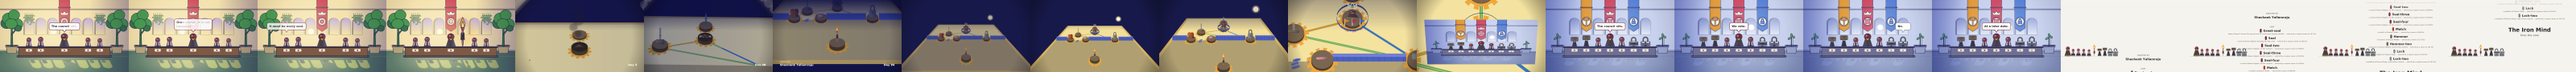
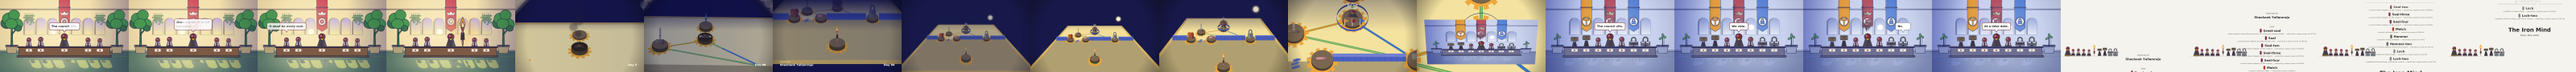
Signet's flag in the rebuilt chamber is the one from the fire: sooted, torn, its target remade roughly, its crown scorched; worn on the map too
Claude-Session: https://claude.ai/code/session_01BaNf7PEFwDmvbzQwQEuLP9

diff --git a/script_to_screen/presentation/place.py b/script_to_screen/presentation/place.py
@@ -39,14 +39,14 @@ from .view import ground, slot_x
 
 WALL_DEPTH, BACK_DEPTH, FRONT_DEPTH = 0.3, 0.15, -0.2
 FLOOR_UP = 46                                 # how far behind the entities' feet the wall meets the floor, in pixels
-ON_WALL = ("door", "window", "picture", "shelf", "thermostat", "vault", "sign", "page", "dome", "pegboard", "chain", "hooks", "ghost", "crest", "hammermark", "lockmark", "crownmark", "banner", "bookwall", "pen", "desklamp", "nails", "hasplate", "arch", "cornice", "vine", "patch")
+ON_WALL = ("door", "window", "picture", "shelf", "thermostat", "vault", "sign", "page", "dome", "pegboard", "chain", "hooks", "ghost", "crest", "hammermark", "lockmark", "crownmark", "banner", "bookwall", "pen", "desklamp", "nails", "hasplate", "arch", "cornice", "vine", "patch", "wornbanner", "roughcrest", "soot")
 ON_FLOOR = ("rug", "shards", "crumbs", "mark")
 COLORS = dict(door="#cdbb9d", window="#b9c2c4", picture="#b7a58c", sofa="#9fb0aa", lamp="#b9a98c", plant="#8fa58a", table="#b49f84",
               shelf="#b49f84", rug="#c9b6a6", counter="#b9b3a2", fridge="#c5cbcc", thermostat="#d8d2c4", pedestal="#c2b8a6", vase="#5b7fa6",
               shards="#5b7fa6", plate="#f4f1e8", vault="#9aa3a8", sign="#b9b3a2",
               rack="#a89784", inkpad="#4a4a52", page="#efe9dc", dome="#c7d3d6", post="#9aa3a8", pegboard="#b49f84", crate="#b49f84",
               chain="#8f969b", gate="#8f969b", hooks="#8f969b", bag="#9c5a48", ropes="#b7a58c", crumbs="#d9a3ae", ghost="#c9c5bb",
-              gantry="#a8906c", wallstub="#b9b3a2", mark="#8f969b", parts="#9fb0aa", crest="#7a2e3b", hammermark="#6b5a4a", lockmark="#7f868c", crownmark="#b7a58c", bench="#b49f84", banner="#7a2e3b", bookwall="#7b5a4c", pen="#2e3440", desklamp="#c9a45a", nails="#8f969b", hasplate="#8f969b", inkwell="#27303f", books="#7b5a4c", pot="#8a5f47", tree="#5d8a55", sapling="#7fb069", arch="#3a2a2e", patch="#e3677c", cornice="#3a2a2e", vine="#6aa85c")
+              gantry="#a8906c", wallstub="#b9b3a2", mark="#8f969b", parts="#9fb0aa", crest="#7a2e3b", hammermark="#6b5a4a", lockmark="#7f868c", crownmark="#b7a58c", bench="#b49f84", banner="#7a2e3b", bookwall="#7b5a4c", pen="#2e3440", desklamp="#c9a45a", nails="#8f969b", hasplate="#8f969b", inkwell="#27303f", books="#7b5a4c", pot="#8a5f47", tree="#5d8a55", sapling="#7fb069", arch="#3a2a2e", patch="#e3677c", wornbanner="#a23a4c", roughcrest="#a23a4c", soot="#120c14", cornice="#3a2a2e", vine="#6aa85c")
 
 
 def rgb(h):
@@ -86,6 +86,13 @@ def poly(*pts):
         p.lineTo(*q)
     p.close()
     return p
+
+
+def _worn(w):
+    """The outline of a flag that has been burnt: the banner's shape, with its point torn ragged and a rip up from the bottom."""
+    h = w / 2
+    return poly((-h, -520), (h, -520), (h, -268), (h - 9, -250), (h - 20, -262), (h - 30, -238), (h - 44, -246), (14, -216), (7, -232), (3, -264), (-3, -226), (-10, -206),
+                (-h + 34, -228), (-h + 24, -252), (-h + 12, -236), (-h, -256))
 
 
 def oval(cx, cy, rx, ry, turn=0):
@@ -292,6 +299,19 @@ def shapes(kind, w):
         stitches = [("line", poly((x, y), (x + dx, y + dy), (x, y))) for x, y, dx, dy in
                     [(-19 + 8 * i, -322, 0, 6) for i in range(6)] + [(-19 + 8 * i, -284, 0, 6) for i in range(6)] + [(-24, -317 + 8 * i, 6, 0) for i in range(5)] + [(18, -317 + 8 * i, 6, 0) for i in range(5)]]
         return [("body", poly((-20, -319), (19, -321), (21, -281), (-19, -279)))] + stitches
+    if kind == "wornbanner":                                         # a flag that has been through a fire: mostly whole, its tail ragged, a rip up from the bottom, burnt through in places
+        w = w or 150
+        return [("body", _worn(w)), ("gap", oval(w / 2 - 21, -322, 7, 10, 15)), ("gap", oval(-w / 2 + 19, -412, 6, 8)), ("dark", rect(-w / 2 - 8, -444, w + 16, 8, 3))]
+    if kind == "soot":                                               # what the fire left on such a flag: darkest at the bottom and the edges. Kept to the cloth
+        w = w or 150
+        cloth, h = _worn(w), w / 2
+        marks = [poly((-h, -300), (h, -288), (h, -190), (-h, -190)), poly((-h, -262), (h, -254), (h, -190), (-h, -190)), oval(-h + 5, -400, 13, 70), oval(h - 4, -352, 11, 56), oval(-16, -374, 24, 12)]
+        return [("soot", skia.Op(m, cloth, skia.PathOp.kIntersect_PathOp)) for m in marks]
+    if kind == "roughcrest":                                         # Signet's emblem, made again by a rougher hand over the mend: the rings uneven and off centre
+        stitches = [("line", poly((x, y), (x + dx, y + dy), (x, y))) for x, y, dx, dy in
+                    [(-17 + 9 * i, -322, 0, 6) for i in range(5)] + [(-17 + 9 * i, -284, 0, 6) for i in range(5)] + [(-24, -315 + 9 * i, 6, 0) for i in range(4)] + [(18, -315 + 9 * i, 6, 0) for i in range(4)]]
+        return ([("body", oval(-3, -299, 45, 48, 6)), ("light", oval(-1, -301, 35, 32, -10)), ("body", poly((-20, -319), (19, -321), (21, -281), (-19, -279)))] + stitches +
+                [("light", oval(3, -298, 13, 11, 14)), ("body", oval(4, -297, 5, 6))])
     if kind == "crownmark":                                          # the crown itself, over the chamber
         return [("body", poly((-34, -366), (-40, -398), (-18, -382), (0, -404), (18, -382), (40, -398), (34, -366)))]
     if kind == "bench":                                              # the council's bench
@@ -353,6 +373,13 @@ class Painter:
                     continue
                 if role == "line":
                     c.drawPath(path, pen(self.line, 2.2) if self.line else pen(mix(color, "#3a332a", 0.25), 2, 150))
+                    continue
+                if role == "soot":                                          # a stain, not a thing: soft, see-through, no line round it
+                    c.drawPath(path, skia.Paint(AntiAlias=True, Color=skia.Color(*rgb(color), 104), MaskFilter=skia.MaskFilter.MakeBlur(skia.kNormal_BlurStyle, 7)))
+                    continue
+                if role == "gap":                                           # a hole burnt through: the sky shows, and its edge is charred
+                    c.drawPath(path, paint(mix(*self.sky, 0.7) if isinstance(self.sky, list) else self.sky))
+                    c.drawPath(path, pen(mix(self.line or "#3a332a", "#120c14", 0.5), 3))
                     continue
                 if role == "body" and not on_floor and not self.line:
                     c.save()
@@ -436,7 +463,7 @@ QUIET = ("arch", "cornice", "vine")            # the wall itself: in an inked pl
 SHADE = 0.5                                   # how dark a cast shadow is, at full light
 
 
-HANGS = ("banner", "crest", "crownmark", "hammermark", "lockmark", "patch")       # a flag and what is on it: they swing together
+HANGS = ("banner", "wornbanner", "crest", "roughcrest", "crownmark", "hammermark", "lockmark", "patch", "soot")       # a flag and what is on it: they swing together
 ROD = -444                                     # where a flag hangs from, above its foot
 
 
@@ -490,8 +517,9 @@ def sunlit(stage, torn=None):
         if piece["kind"] == "arch":
             holes = skia.Op(holes, on_wall(piece, "light"), skia.PathOp.kUnion_PathOp)
     for piece in stage._place["wall"]:
-        if piece["kind"] == "banner":
-            holes = skia.Op(holes, on_wall(piece, "body"), skia.PathOp.kDifference_PathOp)
+        if piece["kind"] in ("banner", "wornbanner"):                       # what the cloth covers is dark; what is torn or burnt out of it is not
+            cloth = skia.Op(on_wall(piece, "body"), on_wall(piece, "gap"), skia.PathOp.kDifference_PathOp)
+            holes = skia.Op(holes, cloth, skia.PathOp.kDifference_PathOp)
     if torn is not None:
         opening = skia.Path()
         hole(0, -300).offset(slot_x(torn, stage.W), base, opening)

diff --git a/script_to_screen/presentation/land.py b/script_to_screen/presentation/land.py
@@ -278,8 +278,12 @@ class Land:
                     fx = x + (i - (len(flags) - 1) / 2) * 30
                     (ax, ay, s2), (qx, qy, _) = proj(fx, y + 34, lift), proj(fx, y + 34, lift + 58 * up)
                     c.drawLine(ax, ay, qx, qy, stroke(self.PALE, 2.5 * s2))
-                    c.drawPath(skia.Path().addPoly([skia.Point(qx, qy), skia.Point(qx + 20 * s2, qy + 7 * s2), skia.Point(qx, qy + 15 * s2)], True),
-                               fill(land["places"][who].get("color") or self.sheets[land["places"][who]["entity"]]["color"], 255 * up))
+                    hue = land["places"][who].get("color") or self.sheets[land["places"][who]["entity"]]["color"]
+                    if who in (p.get("worn") or []):                  # a flag that came through the fire: darker, and its edge torn
+                        shape, hue = [(0, 0), (11, 2), (8, 5), (17, 7), (9, 9), (12, 12), (0, 15)], place_mix(hue, "#120c14", 0.35)
+                    else:
+                        shape = [(0, 0), (20, 7), (0, 15)]
+                    c.drawPath(skia.Path().addPoly([skia.Point(qx + a * s2, qy + b * s2) for a, b in shape], True), fill(hue, 255 * up))
             if p.get("smoke") or p.get("_since", {}).get("smoke") is not None:      # it burned; once it is out, the smoke thins and goes
                 k = k if p.get("smoke") else 1 - smooth((day - p["_since"]["smoke"]) / 12.0)
                 for i in range(7):
